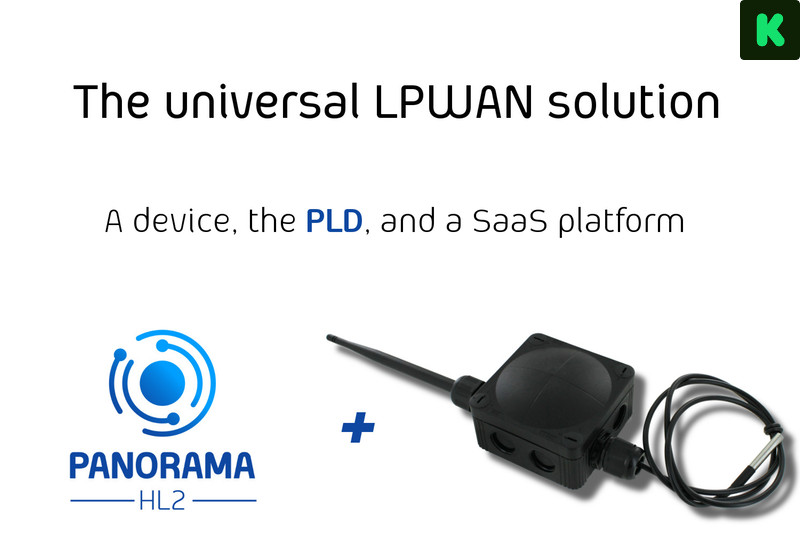
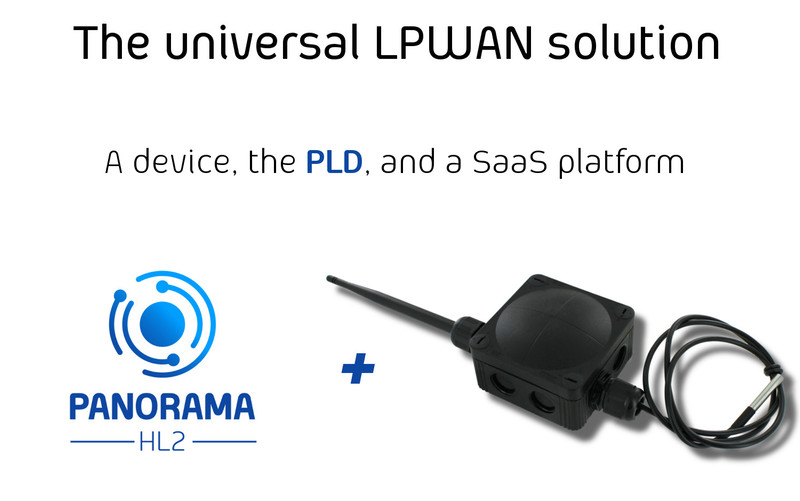
style (carousel) kickstarter

diff --git a/css/main.min.css b/css/main.min.css
@@ -46,7 +46,7 @@
  * protected by trade secret or copyright law. Dissemination of this
  * information or reproduction of this material is strictly forbidden unless
  * prior written permission is obtained from HL2 group.
- */.hl2-bg-kickstarter{background-color:#2bde73!important}a.hl2-bg-kickstarter:focus,a.hl2-bg-kickstarter:hover{background-color:#1db95c!important}body,html{width:100%}body{-webkit-tap-highlight-color:#21589c;margin:0}body>.container-fluid{padding-top:3.5rem}body ::-moz-selection{background:#21589c;color:#fff}body ::-moz-selection,body ::selection{background:#21589c;color:#fff}body .hl2-font-size-s{font-size:.875rem}body .hl2-font-size-m{font-size:1rem}body .hl2-font-size-l{font-size:1.25rem}body header.hl2-90-screen-height,body section.hl2-90-screen-height{min-height:90vh}body header.hl2-70-screen-height,body header.hl2-70-screen-height .carousel-item,body section.hl2-70-screen-height,body section.hl2-70-screen-height .carousel-item{min-height:70vh}body section.hl2-section{position:relative}body section.hl2-section>.row{position:relative;z-index:2}body section.hl2-section::after,body section.hl2-section::before{position:absolute;left:0;content:'';width:100%}body section.hl2-section.bg-primary::before{background-color:#21589c}body section.hl2-section.bg-primary::after{background-color:#2769b9}body section.hl2-section::before{top:0;-webkit-clip-path:ellipse(65% 27% at 50% 73%);clip-path:ellipse(65% 27% at 50% 73%);height:100%;background-color:#f7f7f7;z-index:1}body section.hl2-section::after{bottom:0;-webkit-clip-path:polygon(100% 100%,100% 0,50% 100%);clip-path:polygon(100% 100%,100% 0,50% 100%);min-height:25%;background-color:#dedede;z-index:0}body header.hl2-section,body section.hl2-section{padding:3rem 2rem}@media (max-width:575px){body header.hl2-section.hl2-section,body section.hl2-section.hl2-section{padding:1rem 3rem}}body header.hl2-section>.row>.col,body header.hl2-section>.row>[class*=col-],body section.hl2-section>.row>.col,body section.hl2-section>.row>[class*=col-]{padding:0 1rem}body header.hl2-section .hl2-flex-full,body section.hl2-section .hl2-flex-full{-webkit-box-flex:1;-ms-flex:1 0 auto;flex:1 0 auto}body header.hl2-section .hl2-flex-half,body section.hl2-section .hl2-flex-half{-webkit-box-flex:.5;-ms-flex:.5 0 auto;flex:.5 0 auto}body header.hl2-section h2,body section.hl2-section h2{padding-bottom:1rem}body .navbar{text-transform:uppercase}body .navbar-nav .btn-outline-primary,body .navbar-nav .nav-link{font-weight:700}body .hl2-img-border-fix-ie10{border-style:none}body .hl2-img-fluid-fix-ie11{width:100%}body .hl2-img-fluid-fix-ie11-200{width:150px}body a{-webkit-transition:opacity .15s linear;transition:opacity .15s linear}body .text-primary{color:#21589c}/*!
+ */.hl2-bg-kickstarter{background-color:#0f2105!important}a.hl2-bg-kickstarter:focus,a.hl2-bg-kickstarter:hover{background-color:#000!important}body,html{width:100%}body{-webkit-tap-highlight-color:#21589c;margin:0}body>.container-fluid{padding-top:3.5rem}body ::-moz-selection{background:#21589c;color:#fff}body ::-moz-selection,body ::selection{background:#21589c;color:#fff}body .hl2-font-size-s{font-size:.875rem}body .hl2-font-size-m{font-size:1rem}body .hl2-font-size-l{font-size:1.25rem}body header.hl2-90-screen-height,body section.hl2-90-screen-height{min-height:90vh}body header.hl2-70-screen-height,body header.hl2-70-screen-height .carousel-item,body section.hl2-70-screen-height,body section.hl2-70-screen-height .carousel-item{min-height:70vh}body section.hl2-section{position:relative}body section.hl2-section>.row{position:relative;z-index:2}body section.hl2-section::after,body section.hl2-section::before{position:absolute;left:0;content:'';width:100%}body section.hl2-section.bg-primary::before{background-color:#21589c}body section.hl2-section.bg-primary::after{background-color:#2769b9}body section.hl2-section::before{top:0;-webkit-clip-path:ellipse(65% 27% at 50% 73%);clip-path:ellipse(65% 27% at 50% 73%);height:100%;background-color:#f7f7f7;z-index:1}body section.hl2-section::after{bottom:0;-webkit-clip-path:polygon(100% 100%,100% 0,50% 100%);clip-path:polygon(100% 100%,100% 0,50% 100%);min-height:25%;background-color:#dedede;z-index:0}body header.hl2-section,body section.hl2-section{padding:3rem 2rem}@media (max-width:575px){body header.hl2-section.hl2-section,body section.hl2-section.hl2-section{padding:1rem 3rem}}body header.hl2-section>.row>.col,body header.hl2-section>.row>[class*=col-],body section.hl2-section>.row>.col,body section.hl2-section>.row>[class*=col-]{padding:0 1rem}body header.hl2-section .hl2-flex-full,body section.hl2-section .hl2-flex-full{-webkit-box-flex:1;-ms-flex:1 0 auto;flex:1 0 auto}body header.hl2-section .hl2-flex-half,body section.hl2-section .hl2-flex-half{-webkit-box-flex:.5;-ms-flex:.5 0 auto;flex:.5 0 auto}body header.hl2-section h2,body section.hl2-section h2{padding-bottom:1rem}body .navbar{text-transform:uppercase}body .navbar-nav .btn-outline-primary,body .navbar-nav .nav-link{font-weight:700}body .hl2-img-border-fix-ie10{border-style:none}body .hl2-img-fluid-fix-ie11{width:100%}body .hl2-img-fluid-fix-ie11-200{width:150px}body a{-webkit-transition:opacity .15s linear;transition:opacity .15s linear}body .text-primary{color:#21589c}/*!
  * All information contained herein is, and remains the property of
  * HL2 group and its suppliers, if any. The intellectual and technical
  * concepts contained herein are proprietary to HL2 group and its suppliers
@@ -62,7 +62,7 @@
  * protected by trade secret or copyright law. Dissemination of this
  * information or reproduction of this material is strictly forbidden unless
  * prior written permission is obtained from HL2 group.
- */body header .bg-primary{background-color:linear-gradient(135deg,#21589c 0,#2769b9 100%)}body header .bg-primary .btn-outline-white{color:#fff;background-image:none;background-color:transparent;border-color:#fff}body header .bg-primary .btn-outline-white:hover{color:#21589c;background-color:#fff;border-color:#fff}body header .bg-primary .btn-outline-white.focus,body header .bg-primary .btn-outline-white:focus{-webkit-box-shadow:0 0 0 2px rgba(255,255,255,.5);box-shadow:0 0 0 2px rgba(255,255,255,.5)}body header .bg-primary .btn-outline-white.disabled,body header .bg-primary .btn-outline-white:disabled{color:#fff;background-color:transparent}.show>body header .bg-primary .btn-outline-white.dropdown-toggle,body header .bg-primary .btn-outline-white.active,body header .bg-primary .btn-outline-white:active{color:#21589c;background-color:#fff;border-color:#fff}body header .hl2-bg-kickstarter .btn-outline-white{color:#fff;background-image:none;background-color:transparent;border-color:#fff}body header .hl2-bg-kickstarter .btn-outline-white:hover{color:#2bde73;background-color:#fff;border-color:#fff}body header .hl2-bg-kickstarter .btn-outline-white.focus,body header .hl2-bg-kickstarter .btn-outline-white:focus{-webkit-box-shadow:0 0 0 2px rgba(255,255,255,.5);box-shadow:0 0 0 2px rgba(255,255,255,.5)}body header .hl2-bg-kickstarter .btn-outline-white.disabled,body header .hl2-bg-kickstarter .btn-outline-white:disabled{color:#fff;background-color:transparent}.show>body header .hl2-bg-kickstarter .btn-outline-white.dropdown-toggle,body header .hl2-bg-kickstarter .btn-outline-white.active,body header .hl2-bg-kickstarter .btn-outline-white:active{color:#2bde73;background-color:#fff;border-color:#fff}/*!
+ */body header .bg-primary{background-color:linear-gradient(135deg,#21589c 0,#2769b9 100%)}body header .bg-primary .btn-outline-white{color:#fff;background-image:none;background-color:transparent;border-color:#fff}body header .bg-primary .btn-outline-white:hover{color:#21589c;background-color:#fff;border-color:#fff}body header .bg-primary .btn-outline-white.focus,body header .bg-primary .btn-outline-white:focus{-webkit-box-shadow:0 0 0 2px rgba(255,255,255,.5);box-shadow:0 0 0 2px rgba(255,255,255,.5)}body header .bg-primary .btn-outline-white.disabled,body header .bg-primary .btn-outline-white:disabled{color:#fff;background-color:transparent}.show>body header .bg-primary .btn-outline-white.dropdown-toggle,body header .bg-primary .btn-outline-white.active,body header .bg-primary .btn-outline-white:active{color:#21589c;background-color:#fff;border-color:#fff}body header .hl2-bg-kickstarter .btn-outline-white{color:#2bde73;background-image:none;background-color:transparent;border-color:#2bde73}body header .hl2-bg-kickstarter .btn-outline-white:hover{color:#0f2105;background-color:#2bde73;border-color:#2bde73}body header .hl2-bg-kickstarter .btn-outline-white.focus,body header .hl2-bg-kickstarter .btn-outline-white:focus{-webkit-box-shadow:0 0 0 2px rgba(43,222,115,.5);box-shadow:0 0 0 2px rgba(43,222,115,.5)}body header .hl2-bg-kickstarter .btn-outline-white.disabled,body header .hl2-bg-kickstarter .btn-outline-white:disabled{color:#2bde73;background-color:transparent}.show>body header .hl2-bg-kickstarter .btn-outline-white.dropdown-toggle,body header .hl2-bg-kickstarter .btn-outline-white.active,body header .hl2-bg-kickstarter .btn-outline-white:active{color:#0f2105;background-color:#2bde73;border-color:#2bde73}/*!
  * All information contained herein is, and remains the property of
  * HL2 group and its suppliers, if any. The intellectual and technical
  * concepts contained herein are proprietary to HL2 group and its suppliers
@@ -70,7 +70,7 @@
  * protected by trade secret or copyright law. Dissemination of this
  * information or reproduction of this material is strictly forbidden unless
  * prior written permission is obtained from HL2 group.
- */.hl2-carousel-html-slide{padding:0 60px}/*!
+ */.hl2-carousel-html-slide{padding:0 60px}.hl2-text-kickstarter{color:#2bde73!important}/*!
  * All information contained herein is, and remains the property of
  * HL2 group and its suppliers, if any. The intellectual and technical
  * concepts contained herein are proprietary to HL2 group and its suppliers

diff --git a/_includes/templates/home/carousel/slide-1.html b/_includes/templates/home/carousel/slide-1.html
@@ -1,6 +1,6 @@
 {% assign kickstarter_url = 'https://www.kickstarter.com/projects/hl2/pld-hl2-panorama-sigfox-lorawan-iot-device-saas-pl?ref=signature-email' %}
 {% capture content_slide %}{% include contents/home/carousel/slide-1.md %}{% endcapture %}
-<div class="row justify-content-between mw-100 hl2-bg-kickstarter text-white text-center align-items-strech hl2-flex-full hl2-carousel-html-slide">
+<div class="row justify-content-between mw-100 hl2-bg-kickstarter hl2-text-kickstarter text-center align-items-strech hl2-flex-full hl2-carousel-html-slide">
   <div class="col-md-6 d-flex flex-column justify-content-center">
     {{ content_slide | markdownify }}
     <span
@@ -11,7 +11,7 @@
         href="{{ kickstarter_url }}"
         target="_blank"
       >
-        Go
+        Back us on Kickstarter
       </a>
     </span>
   </div>

diff --git a/_sass/hl2/_home.scss b/_sass/hl2/_home.scss
@@ -20,7 +20,7 @@ body {
 
     & .hl2-bg-kickstarter {
       & .btn-outline-white {
-        @include button-outline-variant($white, $kickstarter-primary);
+        @include button-outline-variant($kickstarter-text, $kickstarter-primary);
       }
     }
   }

diff --git a/_sass/hl2/_carousel.scss b/_sass/hl2/_carousel.scss
@@ -11,3 +11,9 @@
 .hl2-carousel-html-slide {
   padding: 0 $carousel-control-width;
 }
+
+// Contextual colors
+
+.hl2-text-kickstarter {
+  color: $kickstarter-text !important;
+}

diff --git a/_sass/hl2/_variables.scss b/_sass/hl2/_variables.scss
@@ -9,4 +9,5 @@
  */
 
 // Colors
-$kickstarter-primary: #2bde73;
+$kickstarter-primary: #0f2105;
+$kickstarter-text: #2bde73;

diff --git a/_includes/contents/home/carousel/slide-1.md b/_includes/contents/home/carousel/slide-1.md
@@ -1,3 +1,1 @@
 ## Our crowdfunding campaign is launched!
-
-Back us on Kickstarter
